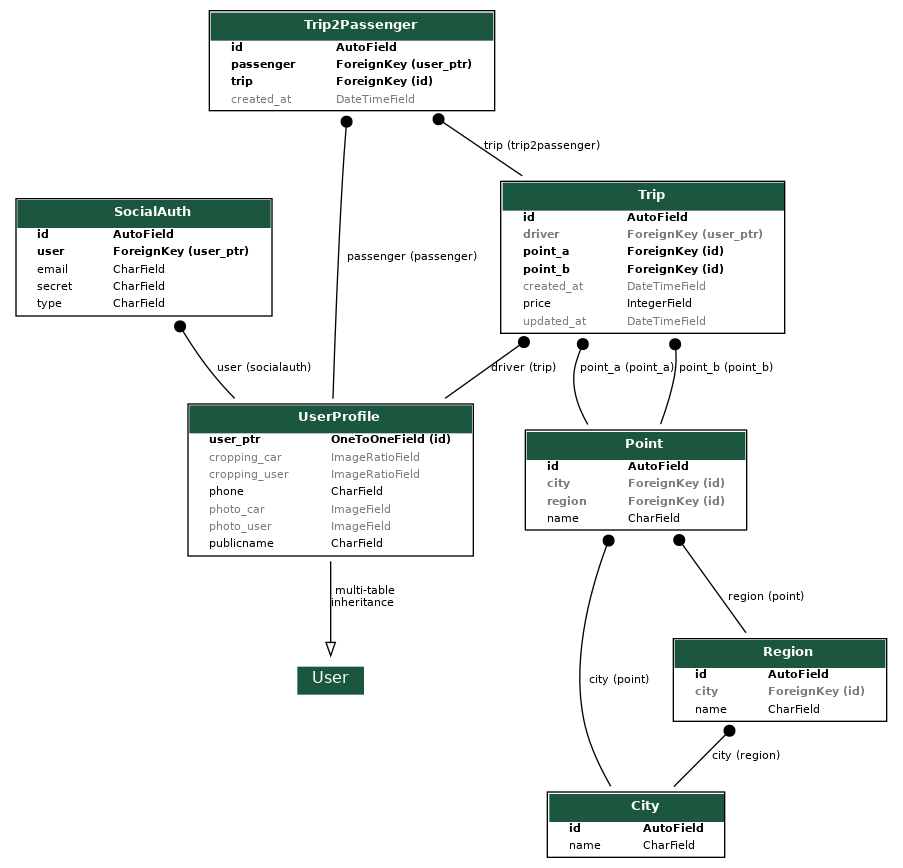
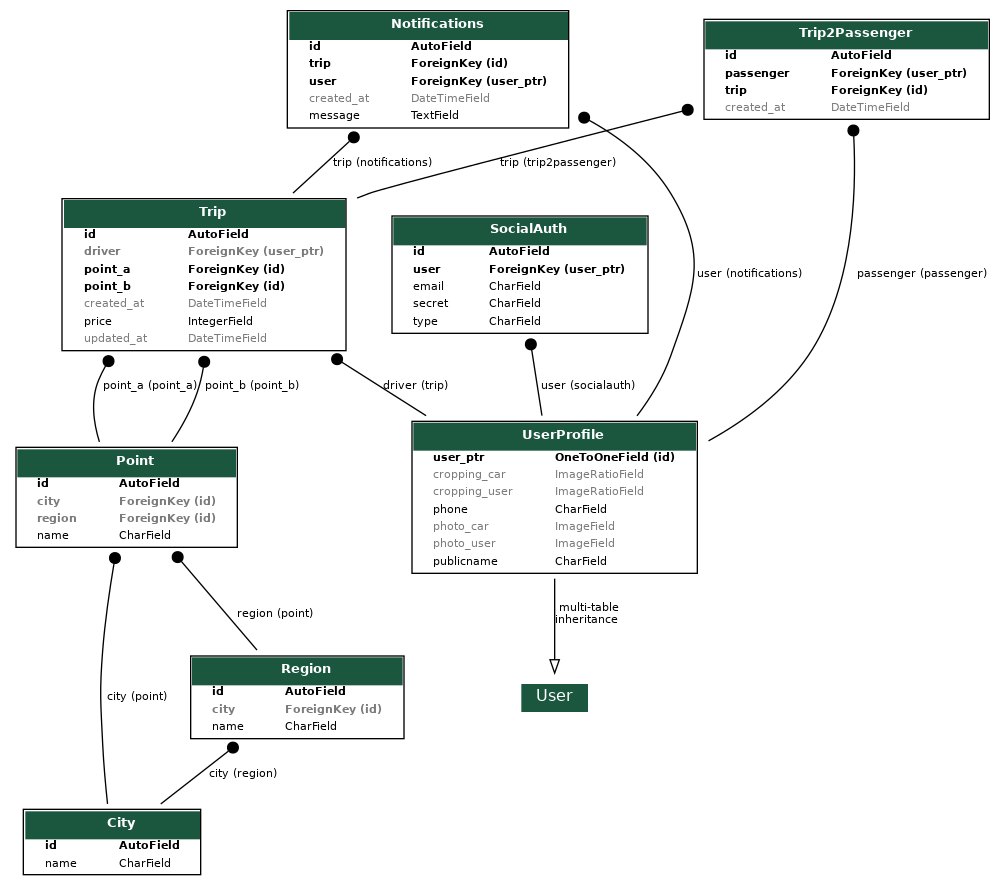
commit from zdimon77@gmail.com --notification-api--

diff --git a/backend/dj_prj/taxi/migrations/0011_notifications.py b/backend/dj_prj/taxi/migrations/0011_notifications.py
@@ -1,0 +1,24 @@
+# Generated by Django 3.0.6 on 2020-05-08 15:58
+
+from django.db import migrations, models
+import django.db.models.deletion
+
+
+class Migration(migrations.Migration):
+
+    dependencies = [
+        ('taxi', '0010_trip_price'),
+    ]
+
+    operations = [
+        migrations.CreateModel(
+            name='Notifications',
+            fields=[
+                ('id', models.AutoField(auto_created=True, primary_key=True, serialize=False, verbose_name='ID')),
+                ('message', models.TextField()),
+                ('created_at', models.DateTimeField(auto_now_add=True)),
+                ('trip', models.ForeignKey(on_delete=django.db.models.deletion.CASCADE, to='taxi.Trip')),
+                ('user', models.ForeignKey(on_delete=django.db.models.deletion.CASCADE, to='taxi.UserProfile')),
+            ],
+        ),
+    ]

diff --git a/backend/dj_prj/taxi/views/notification_view.py b/backend/dj_prj/taxi/views/notification_view.py
@@ -1,0 +1,22 @@
+from rest_framework.response import Response
+from rest_framework.permissions import AllowAny, IsAuthenticated
+from drf_yasg.utils import swagger_auto_schema
+from rest_framework import generics
+
+
+from taxi.models import Notifications
+from taxi.serializers import NotificationSerializer
+from taxi.filters import NotificationFilter
+
+
+class NotificationListView(generics.ListAPIView):
+    '''
+    Search point.
+
+    _______________________
+
+    '''
+    queryset = Notifications.objects.all()
+    serializer_class = NotificationSerializer
+    permission_classes = [IsAuthenticated]
+    filterset_class = NotificationFilter

diff --git a/backend/dj_prj/taxi/urls.py b/backend/dj_prj/taxi/urls.py
@@ -7,7 +7,8 @@ from taxi.views import RegionsListView, \
                        TripAddView, \
                        PassengerAddToTripView, \
                        DriverAddToTripView, \
-                       SearchPointView 
+                       SearchPointView, \
+                       NotificationListView 
 
 
 
@@ -21,5 +22,6 @@ urlpatterns = [
         path('passenger_add_to_trip',PassengerAddToTripView.as_view()),
         path('driver_add_to_trip',DriverAddToTripView.as_view()),
         path('point_search',SearchPointView.as_view()),
+        path('notification_list',NotificationListView.as_view()),
  
 ]

diff --git a/backend/dj_prj/taxi/models/notifications.py b/backend/dj_prj/taxi/models/notifications.py
@@ -1,0 +1,9 @@
+from django.db import models
+
+from taxi.models import UserProfile, Point, Trip
+
+class Notifications(models.Model):
+    trip = models.ForeignKey(Trip, on_delete=models.CASCADE)
+    user = models.ForeignKey(UserProfile, on_delete=models.CASCADE)
+    message = models.TextField()
+    created_at = models.DateTimeField(auto_now_add=True)

diff --git a/backend/dj_prj/taxi/filters/notification_filter.py b/backend/dj_prj/taxi/filters/notification_filter.py
@@ -1,0 +1,10 @@
+from django_filters import FilterSet, NumberFilter, CharFilter
+from taxi.models import Notifications
+
+class NotificationFilter(FilterSet):
+    user = NumberFilter()
+
+
+    class Meta:
+        model = Notifications
+        fields = ['user']

diff --git a/backend/dj_prj/taxi/serializers/notification_serializer.py b/backend/dj_prj/taxi/serializers/notification_serializer.py
@@ -1,0 +1,8 @@
+from rest_framework import serializers
+from taxi.models import Notifications
+
+class NotificationSerializer(serializers.ModelSerializer):
+
+    class Meta:
+        model = Notifications
+        fields = ['id', 'trip', 'message', 'user']

diff --git a/backend/dj_prj/taxi/serializers/__init__.py b/backend/dj_prj/taxi/serializers/__init__.py
@@ -6,3 +6,4 @@ from .profile_serializer import *
 from .common_serializer import *
 from .point_serializer import *
 from .trip_serializer import *
+from .notification_serializer import *

diff --git a/backend/dj_prj/taxi/views/__init__.py b/backend/dj_prj/taxi/views/__init__.py
@@ -3,3 +3,4 @@ from .auth_view import *
 from .profile_view import *
 from .point_view import *
 from .trip_view import *
+from .notification_view import *

diff --git a/backend/dj_prj/taxi/models/__init__.py b/backend/dj_prj/taxi/models/__init__.py
@@ -2,3 +2,4 @@ from .regions import *
 from .user import *
 from .auth import *
 from .trip import *
+from .notifications import *

diff --git a/backend/dj_prj/taxi/filters/__init__.py b/backend/dj_prj/taxi/filters/__init__.py
@@ -1,1 +1,2 @@
 from .point_filter import *
+from .notification_filter import *
